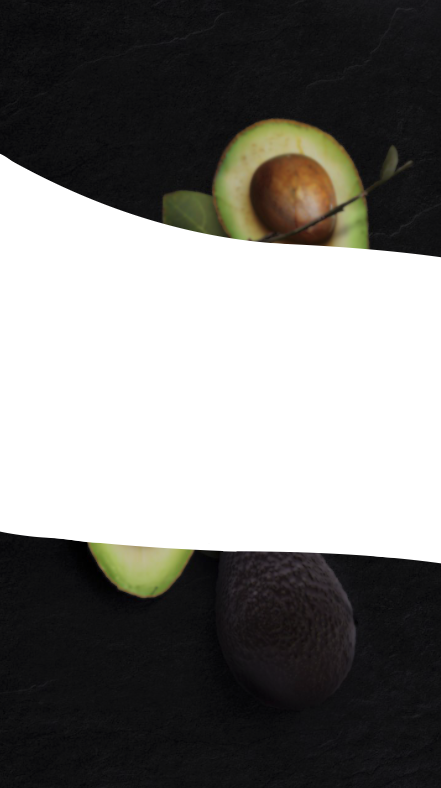
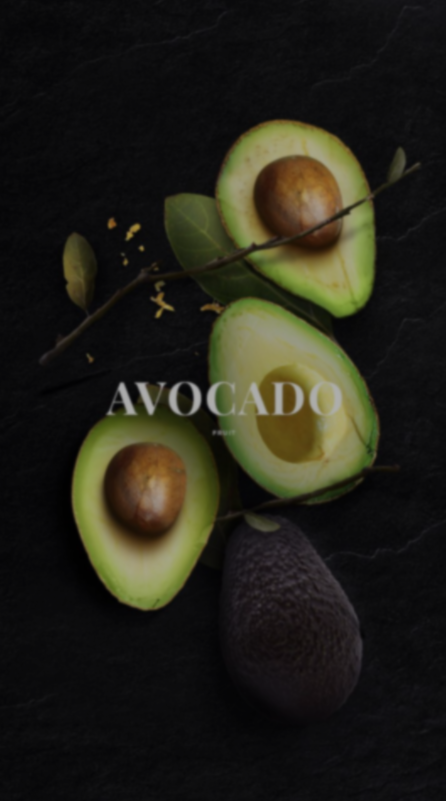
Enabled recipe search

diff --git a/src/app/my-recipes/my-recipes.page.ts b/src/app/my-recipes/my-recipes.page.ts
@@ -4,6 +4,8 @@ import { RecipesService } from '../services/recipe.service';
 import { RefresherCustomEvent } from '@ionic/angular';
 import { UserService, UserSummary } from '../services/user.service';
 import { AuthService } from '../services/auth.services';
+import { FormControl } from '@angular/forms';
+import { BehaviorSubject, combineLatest, debounceTime, map, Observable, startWith } from 'rxjs';
 
 @Component({
   selector: 'app-my-recipes',
@@ -15,6 +17,9 @@ export class MyRecipesPage implements OnInit {
   recipes: Recipe[] = [];
   users: UserSummary[] = [];
   isLoading = false;
+  searchControl = new FormControl(''); 
+  private recipeSubject = new BehaviorSubject<Recipe[]>([]);
+  public filteredItems$!: Observable<Recipe[]>; 
 
   constructor(
     private recipesService: RecipesService,
@@ -24,6 +29,24 @@ export class MyRecipesPage implements OnInit {
   ngOnInit() {
     this.loadRecipes();
     this.loadUsers();
+    const search$: Observable<string> = this.searchControl.valueChanges.pipe(debounceTime(150), 
+          startWith(''),
+          map(term => (term as string).toLowerCase()) 
+      );
+    
+      this.filteredItems$ = combineLatest([
+          this.recipeSubject.asObservable(),
+          search$,
+        ]).pipe(
+          map(([recipes, searchTerm]) => {
+            if (!searchTerm || searchTerm.trim() === '') {
+              return recipes;
+            }
+            return recipes.filter(recipe => 
+              recipe.title.toLowerCase().includes(searchTerm) 
+            );
+          })
+    );
   }
 
   loadRecipes() {
@@ -31,6 +54,7 @@ export class MyRecipesPage implements OnInit {
     this.recipesService.getMyRecipes().subscribe({
       next: (summaries) => {
         this.recipes = summaries;
+        this.recipeSubject.next(summaries);
         this.isLoading = false;
       },
       error: (err) => {

diff --git a/src/app/all-recipes/all-recipes.page.ts b/src/app/all-recipes/all-recipes.page.ts
@@ -3,6 +3,9 @@ import { RecipesService } from '../services/recipe.service';
 import { RefresherCustomEvent } from '@ionic/angular';
 import { Recipe } from '../models/recipe.model';
 import { UserService, UserSummary } from '../services/user.service';
+import { IonSearchbar } from '@ionic/angular/standalone';
+import { FormControl } from '@angular/forms';
+import { BehaviorSubject, combineLatest, debounceTime, map, Observable, startWith } from 'rxjs';
 
 @Component({
   selector: 'app-all-recipes',
@@ -14,6 +17,9 @@ export class AllRecipesPage implements OnInit {
   recipes: Recipe[] = [];
   users: UserSummary[] = [];
   isLoading = false;
+  searchControl = new FormControl(''); 
+  private recipeSubject = new BehaviorSubject<Recipe[]>([]);
+  public filteredItems$!: Observable<Recipe[]>; 
 
   constructor(
     private recipesService: RecipesService,
@@ -23,6 +29,24 @@ export class AllRecipesPage implements OnInit {
   ngOnInit() {
     this.loadRecipes();
     this.loadUsers();
+    const search$: Observable<string> = this.searchControl.valueChanges.pipe(debounceTime(150), 
+      startWith(''),
+      map(term => (term as string).toLowerCase()) 
+  );
+
+  this.filteredItems$ = combineLatest([
+      this.recipeSubject.asObservable(),
+      search$,
+    ]).pipe(
+      map(([recipes, searchTerm]) => {
+        if (!searchTerm || searchTerm.trim() === '') {
+          return recipes;
+        }
+        return recipes.filter(recipe => 
+          recipe.title.toLowerCase().includes(searchTerm) 
+        );
+      })
+    );
   }
 
   loadRecipes() {
@@ -30,6 +54,7 @@ export class AllRecipesPage implements OnInit {
     this.recipesService.getRecipes().subscribe({
       next: (summaries) => {
         this.recipes = summaries;
+        this.recipeSubject.next(summaries);
         this.isLoading = false;
       },
       error: (err) => {

diff --git a/src/app/all-recipes/all-recipes.page.html b/src/app/all-recipes/all-recipes.page.html
@@ -5,12 +5,19 @@
     </ion-buttons>
     <ion-title>Discover recipes</ion-title>
   </ion-toolbar>
+  <ion-toolbar>
+    <ion-searchbar
+      [formControl]="searchControl"
+      placeholder="Search recipes"
+      showCancelButton="focus"
+    ></ion-searchbar>
+  </ion-toolbar>
 </ion-header>
 
 <ion-content>
-  <ion-list *ngIf="!isLoading">
+  <ion-list *ngIf="filteredItems$ | async as items">
     <app-recipe
-      *ngFor="let recipe of recipes"
+      *ngFor="let recipe of items"
       [recipe]="recipe"
       (deleted)="refreshRecipes()"
       [users]="users"

diff --git a/src/app/all-recipes/all-recipes.module.ts b/src/app/all-recipes/all-recipes.module.ts
@@ -1,6 +1,6 @@
 import { NgModule } from '@angular/core';
 import { CommonModule } from '@angular/common';
-import { FormsModule } from '@angular/forms';
+import { FormsModule, ReactiveFormsModule } from '@angular/forms';
 
 import { IonicModule } from '@ionic/angular';
 
@@ -16,6 +16,7 @@ import { RecipeComponent } from '../components/recipe/recipe.component';
     IonicModule,
     AllRecipesPageRoutingModule,
     RecipeComponent,
+    ReactiveFormsModule
   ],
   declarations: [AllRecipesPage],
 })

diff --git a/src/app/my-recipes/my-recipes.module.ts b/src/app/my-recipes/my-recipes.module.ts
@@ -1,6 +1,6 @@
 import { NgModule } from '@angular/core';
 import { CommonModule } from '@angular/common';
-import { FormsModule } from '@angular/forms';
+import { FormsModule, ReactiveFormsModule } from '@angular/forms';
 
 import { IonicModule } from '@ionic/angular';
 
@@ -16,6 +16,7 @@ import { RecipeComponent } from '../components/recipe/recipe.component';
     IonicModule,
     MyRecipesPageRoutingModule,
     RecipeComponent,
+    ReactiveFormsModule
   ],
   declarations: [MyRecipesPage],
 })

diff --git a/src/theme/variables.scss b/src/theme/variables.scss
@@ -129,7 +129,7 @@ ion-range::part(bar-active) {
   height: 100%;
 }
 .form-container {
-  background: url('../assets/images/a.png') no-repeat center center fixed !important;
+  background: url('../assets/images/image.png') no-repeat center center fixed !important;
   display: flex;
   justify-content: center;
   flex-direction: column;
